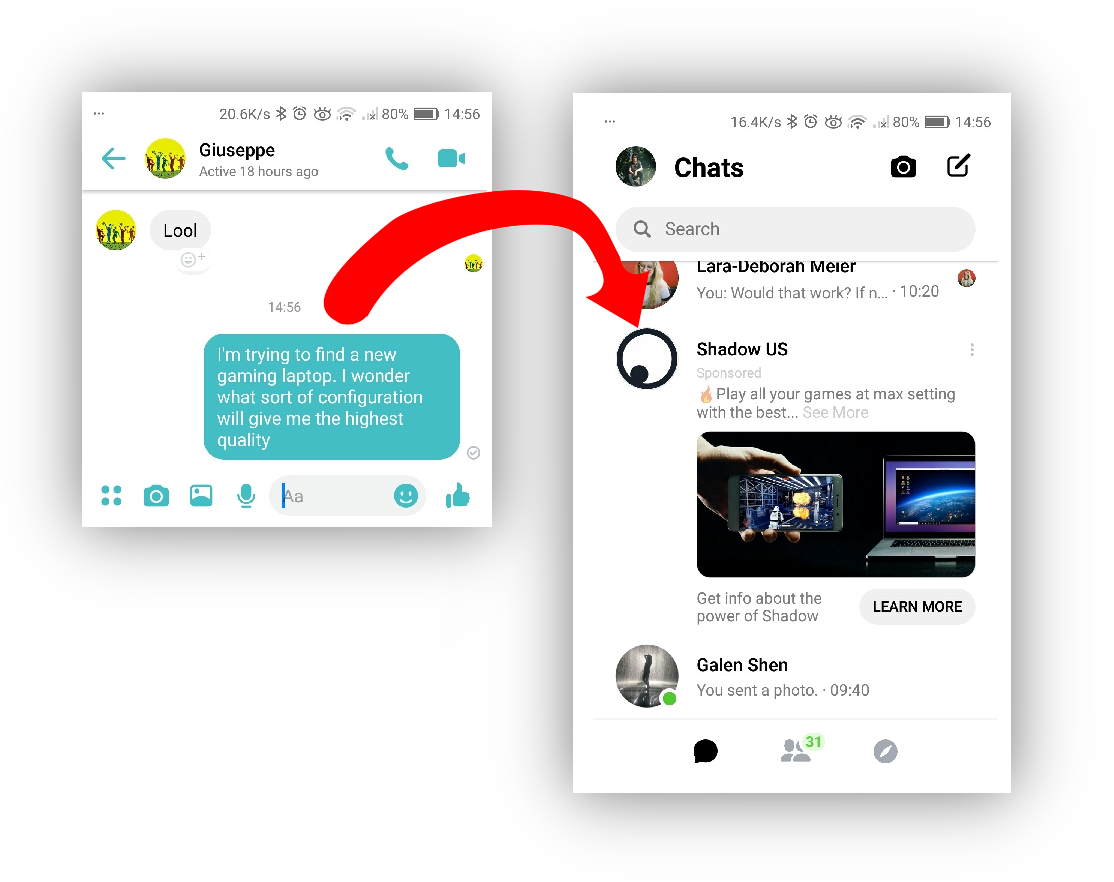
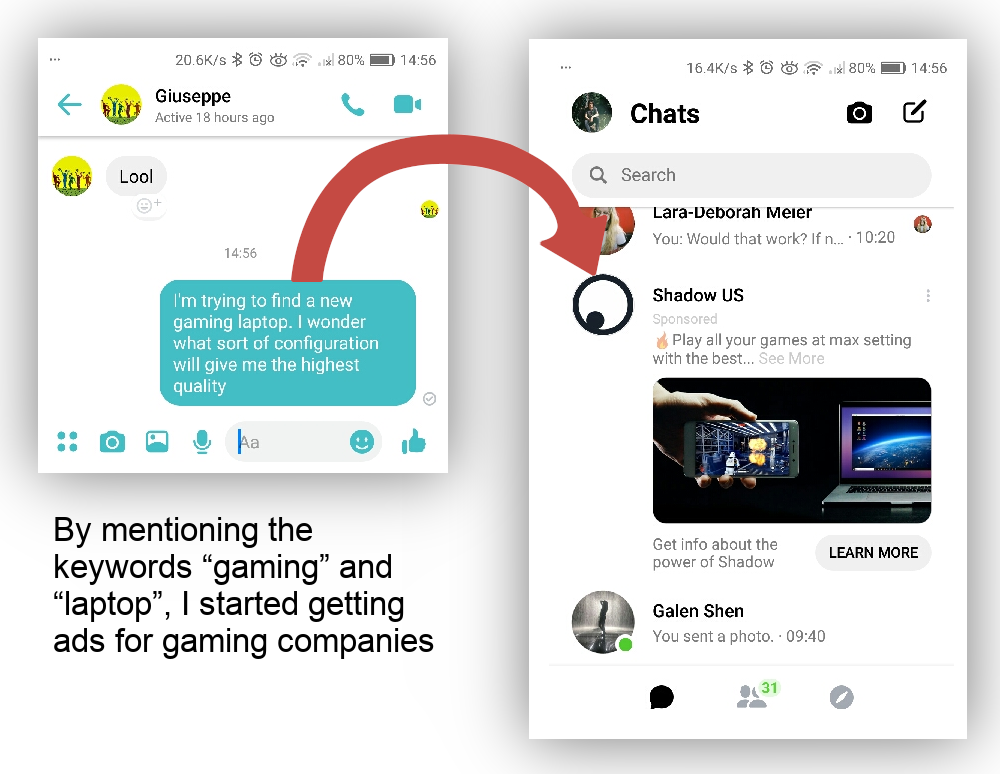
Updated images for consistent look

diff --git a/onboarding.md b/onboarding.md
@@ -18,6 +18,8 @@ Giuseppe and I have made a resolution to move all of our communications to Matri
 
 * **Matrix has HD quality video-calls**. When you Video call someone on Skype or Facebook Messenger, your call is routed through networks that handles hundreds of thousands of calls in every given moment. *Because bandwidth (data) is limited (and expensive!), companies will not give you the best quality possible.* Giuseppe and I host our own Matrix servers, which only have dozens of users. This means, when you make a video call on Matrix, you will always get the best possible quality.
 
+![Comparison between Matrix videocall quality, and that of Facebook Messanger](./media/comparison.png)
+
 * **Matrix uses state-of-the-art encryption**. If you enable encryption in your Matrix chats (which is only a single button click), *nobody except the recipient of your messages can read your messages*. Not even the owners of your Matrix server! If you send someone a message on Facebook Messenger, Facebook can (and will) read your messages (in order to display advertisements). But an encrypted Matrix chat session means nobody else can eavesdrop.
 
 ![Encryption information](./media/encryption-info.png)
